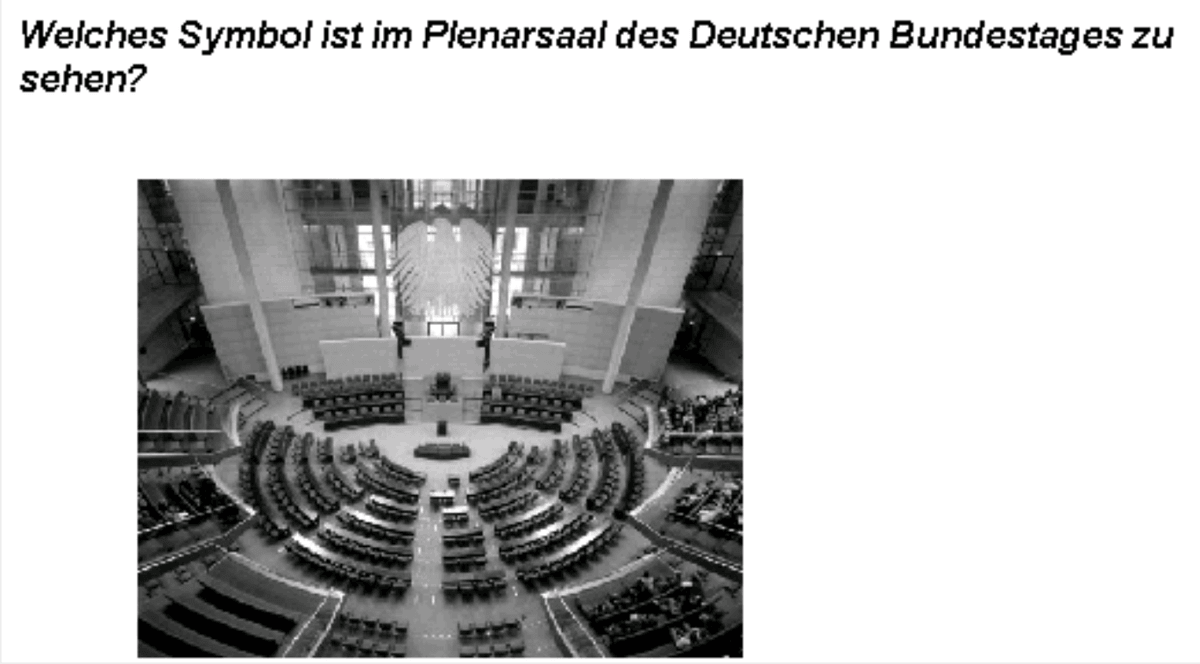
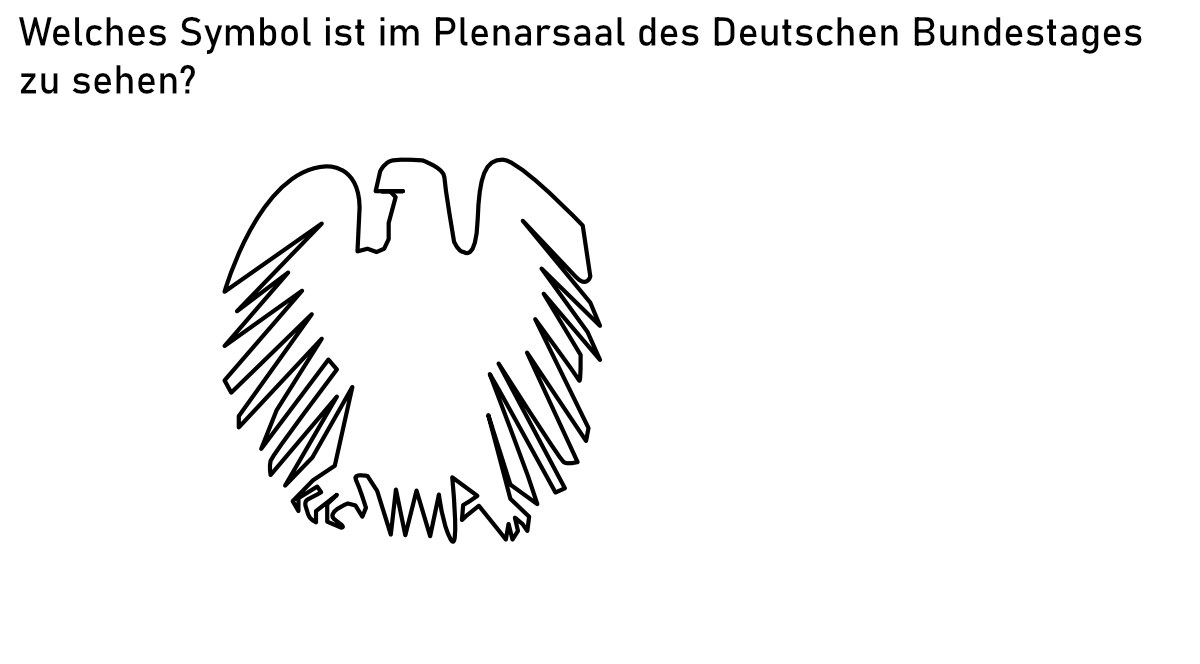
Replace B216 image with corrected redraw

diff --git a/README.md b/README.md
@@ -38,7 +38,7 @@ No web server is required; `data/questions.js`, `data/vocabulary.js` and `data/i
[1 lines of base64/hex data omitted]
   <https://www.bamf.de/SharedDocs/Anlagen/DE/Integration/Einbuergerung/gesamtfragenkatalog-lebenindeutschland.html?nn=284310>
 - **Answers, English translations, explanations and images**: [abdullahbutt/leben-in-deutschland-test](https://github.com/abdullahbutt/leben-in-deutschland-test), version 2026-10-28. **The German question and option wording is taken verbatim from the official BAMF PDF**; the dataset supplies the answer key, English translations, explanations and images. The translations and explanations are licensed under **CC BY-NC 4.0** (attribution, non-commercial use). `data/overrides.json` contains manual corrections for the few items where the dataset described a different paraphrase (e.g. B232, B247, HB02, SN07).
-- **B021, B055, B070, B130, B176, B181, B187 and B209 images**: `data/images/21.png`, `data/images/55.png`, `data/images/70.png`, `data/images/130.png`, `data/images/176.png`, `data/images/181.png`, `data/images/187.png` and `data/images/209.png` are redrawn replacements added for this project; the remaining images come from the dataset.
+- **B021, B055, B070, B130, B176, B181, B187, B209 and B216 images**: `data/images/21.png`, `data/images/55.png`, `data/images/70.png`, `data/images/130.png`, `data/images/176.png`, `data/images/181.png`, `data/images/187.png`, `data/images/209.png` and `data/images/216.png` are redrawn replacements added for this project; the remaining images come from the dataset.
 - This is an independent learning app, not an official BAMF product. Use is intended for personal, non-commercial exam preparation.
 
 ## Project layout
